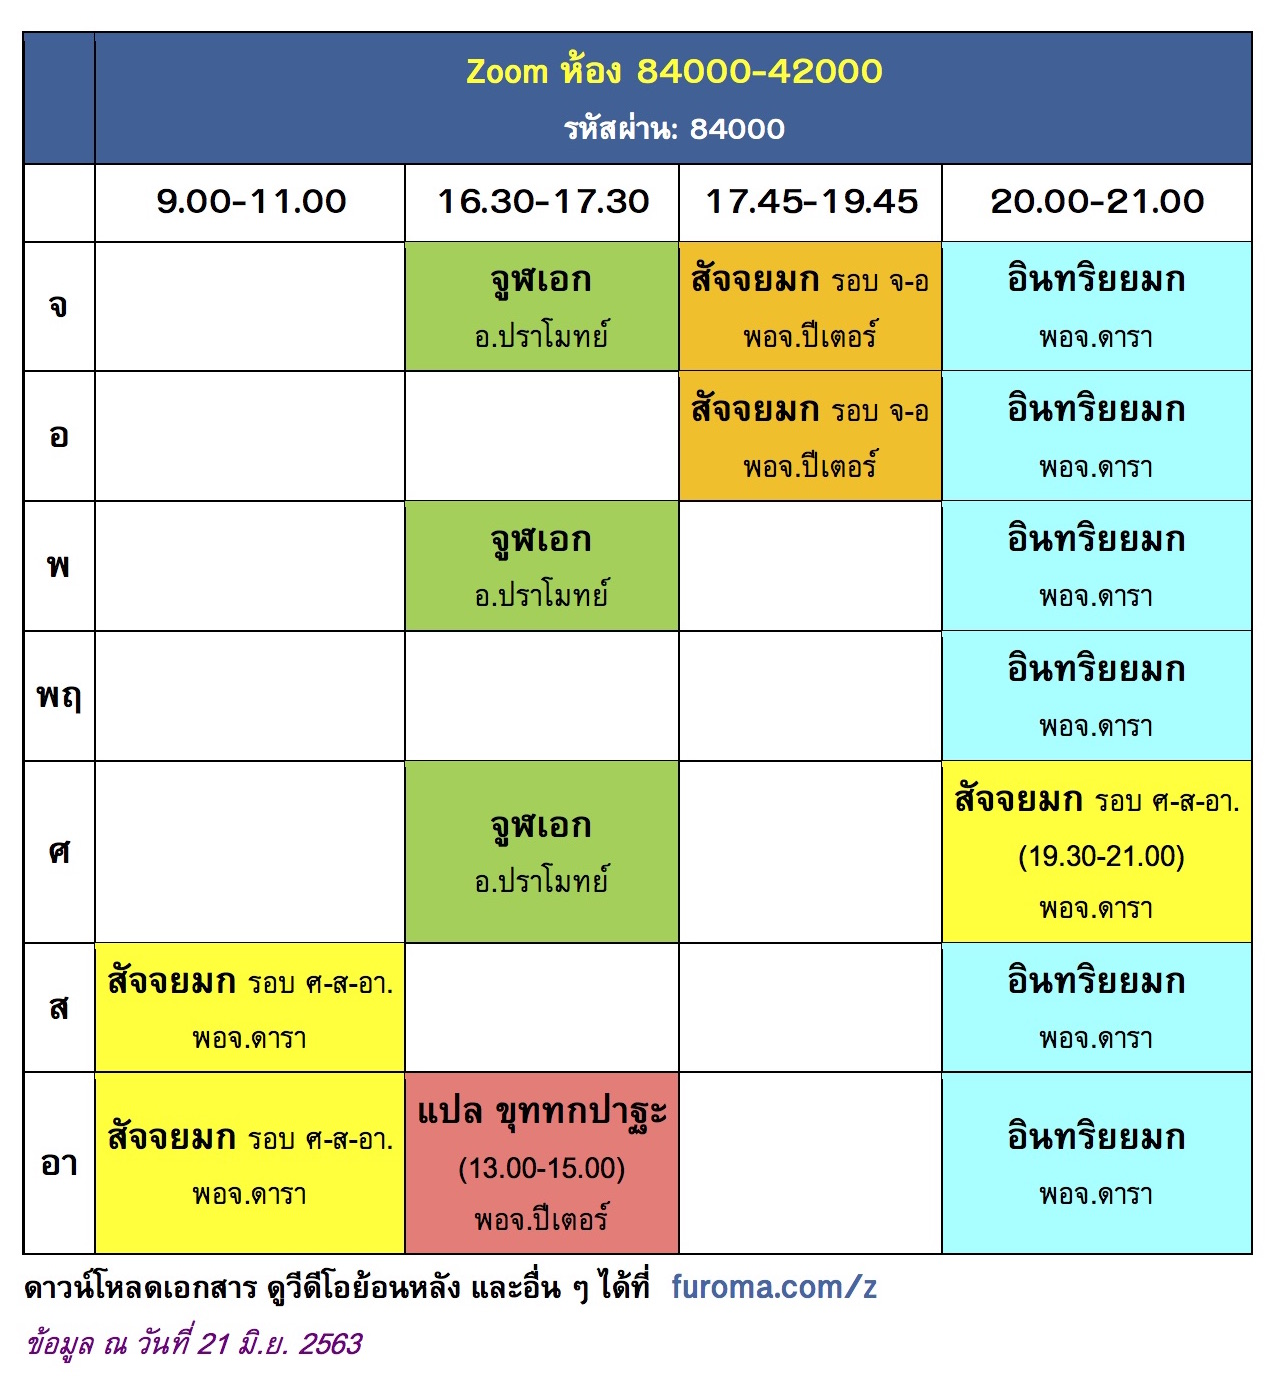
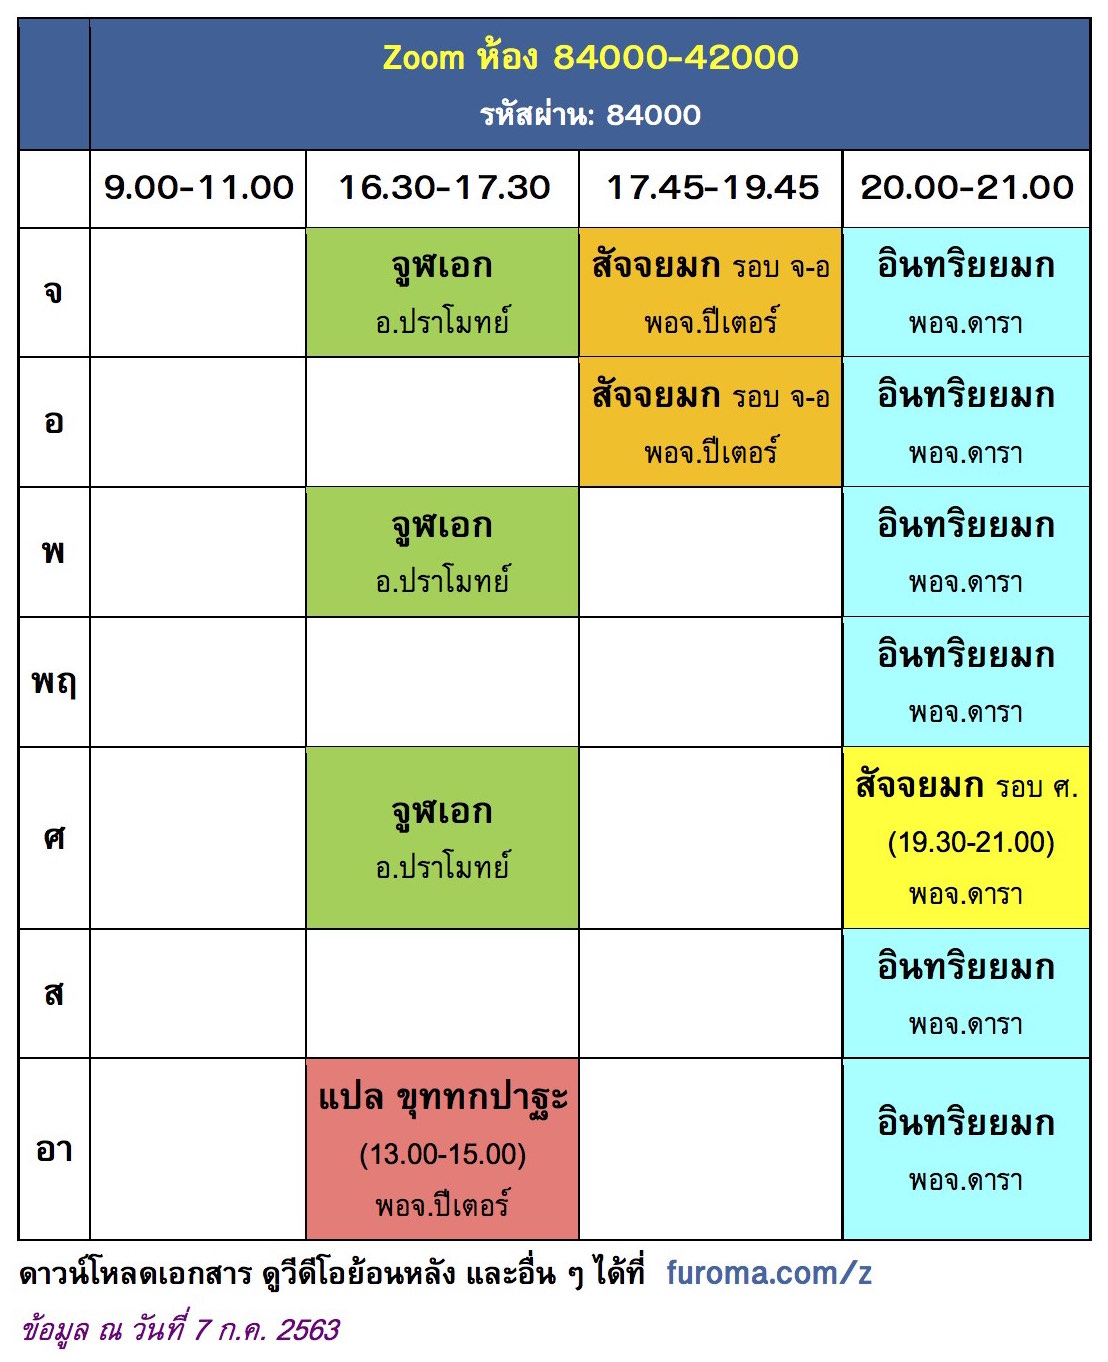
2020-07-05

Changed region(s): [[0.0, 0.0, 1.0, 0.9868]]

diff --git a/puccha/index.html b/puccha/index.html
@@ -431,34 +431,38 @@
 
 
                 tt = (_paccayaMode[0]=='น')? no_SATTI[_sattiMode] : _SATTI[_sattiMode];
-                tt +=  "ปจฺจยา ";
+                tt +=  "ปจฺจยา";
 
                 for (k=0; k<_mulaMode-2; k++) {
 
                     if (k==_sattiMode)
                       k++;
+                    tt += " ";
                     tt += (_paccayaMode[0]=='น')? no_SATTI[k] : _SATTI[k];
-                    tt +=  "ปจฺจยา ";
+                    tt +=  "ปจฺจยา";
                 }
 
                 //tt+= " _sattiMode=" + _sattiMode +" _mulaMode="+_mulaMode;
 
+
                 if (_sattiMode < _mulaMode-3) {
-                    tt += (_paccayaMode[0]=='น')? no_SATTI[_mulaMode-2] : _SATTI[_mulaMode-2];
-                    tt +=  "ปจฺจยา ";
+                        tt += " ";
+                        tt += (_paccayaMode[0]=='น')? no_SATTI[_mulaMode-2] : _SATTI[_mulaMode-2];
+                        tt +=  "ปจฺจยา";
+                    }
+
+                if (_mulaMode!=1) {
+                    tt += " <SPAN class=lastpaccaya>";
+
+
+                    k = (_sattiMode > _mulaMode-2)? _mulaMode - 2 : _mulaMode - 1;
+
+
+                    tt += (_paccayaMode[1]=='น')? no_SATTI[k] : _SATTI[k];
+                    tt += "ปจฺจยา</SPAN>?";
+                    //tt += (_mulaMode==1)?  "ปจฺจยา</SPAN>?" : "^</SPAN>?";
                 }
-
-                tt += "<SPAN class=lastpaccaya>";
-
-
-                k = (_sattiMode > _mulaMode-2)? _mulaMode - 2 : _mulaMode - 1;
-
-
-                tt += (_paccayaMode[1]=='น')? no_SATTI[k] : _SATTI[k];
-                tt += "ปจฺจยา</SPAN>?";
-                //tt += (_mulaMode==1)?  "ปจฺจยา</SPAN>?" : "^</SPAN>?";
-
-
+                else tt+= "?";
 
 
                 for (i=0; i<MulaOrder.length; i++)
@@ -677,14 +681,19 @@
                 }
 
 
-                tt += "<SPAN class=lastpaccaya>";
+                if (_mulaMode!=1) {
+                    tt += "<SPAN class=lastpaccaya>";
 
 
-                k = (_sattiMode > _mulaMode-2)? _mulaMode - 2 : _mulaMode - 1;
+                    k = (_sattiMode > _mulaMode-2)? _mulaMode - 2 : _mulaMode - 1;
 
 
-                tt += (_paccayaMode[1]=='น')? no_SATTI[k] : _SATTI[k];
-                tt += "ปจฺจเยน</SPAN> ปจฺจโย?";
+                    tt += (_paccayaMode[1]=='น')? no_SATTI[k] : _SATTI[k];
+                    tt += "ปจฺจเยน</SPAN> ปจฺจโย?";
+                  }
+                else
+                    tt += "ปจฺจโย?";
+
 
 
                 for (i=0; i<MulaOrder.length; i++)

diff --git a/z/index.html b/z/index.html
@@ -50,7 +50,7 @@
 
   <A href=https://zoom.us/j/8400042000?pwd=SW1GOXp2Yk5xZTNtYmdjZER2bS9hdz09>
   <SPAN class=banner>คลิกเพื่อเข้าห้อง <SPAN style="color:yellow">84000 42000</SPAN><BR />อินทริย / สัจจ <SPAN style="font-weight:bold">ยมก</SPAN><BR/>
-จูฬเอก / มัช.เอก / ขุททกปาฐะ</SPAN></A>
+จูฬเอก / ขุททกปาฐะ</SPAN></A>
 
 <A href=https://zoom.us/j/8400084000?pwd=OUhydDBhbm5BMm5uZCtnR2lRVlRydz09>
   <SPAN class=banner>คลิกเพื่อเข้าห้อง <SPAN style="color:yellow">84000 84000</SPAN><BR />บาลีไวยากรณ์ / วิถีจิต / จูฬตรี-โท<BR/>
@@ -61,7 +61,7 @@
 <B>ปัจจยาการวิภังค์</B>: เลื่อนคลาสวันที่ 15 เม.ย. เป็นวันที่ 14 เม.ย.</SPAN><!---->
 
 <TABLE cellpadding=0 cellspacing=0 align=center><TR valign=top><TD>
-<A href=42000.jpg?06-21><IMG border=0 src="42000.jpg?06-21" width=500px height=600px /></A>
+<A href=42000.jpg?07-05><IMG border=0 src="42000.jpg?07-05" width=500px height=600px /></A>
 <A href=84000.jpg?06-21><IMG border=0 src="84000.jpg?06-21" width=500px height=600px /></A></TABLE>
 (คลิกที่รูป เพื่อดูตารางสอนที่ใหญ่ขึ้น)<BR/>
 
